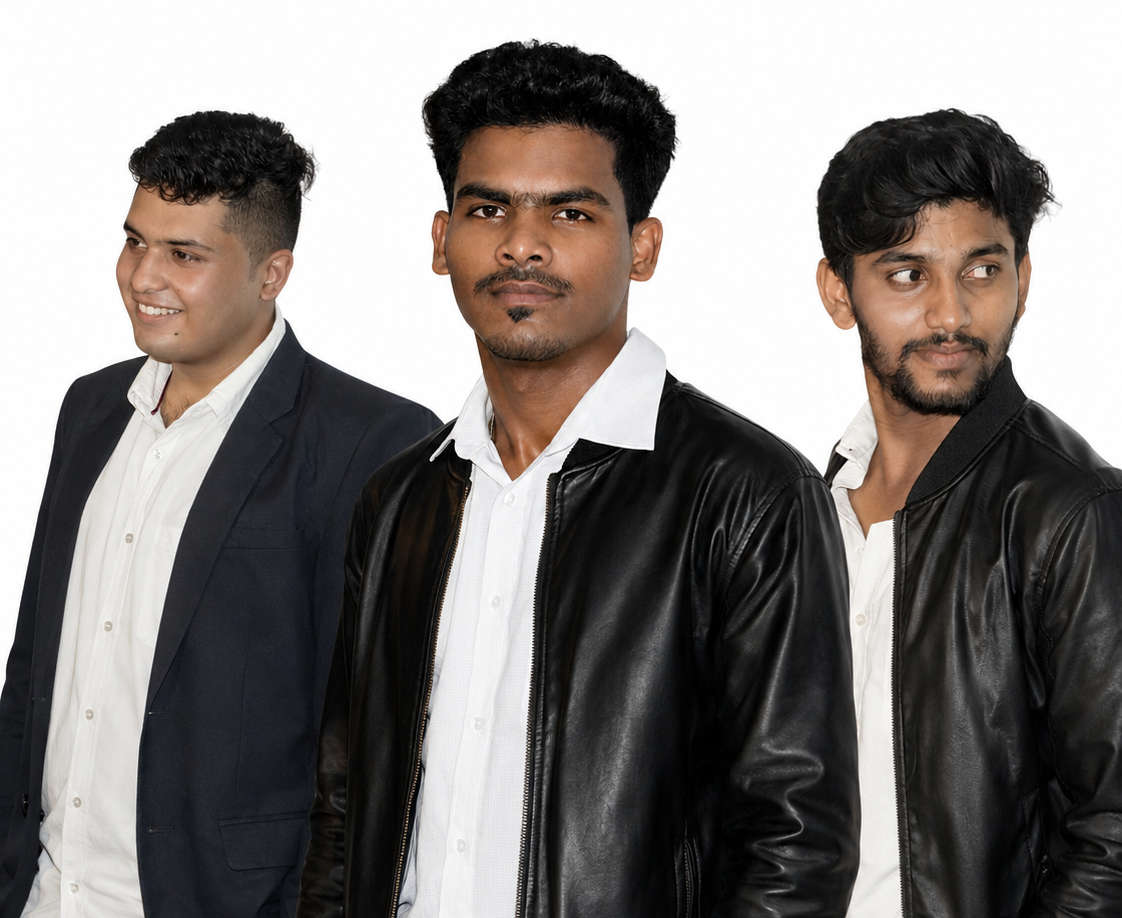
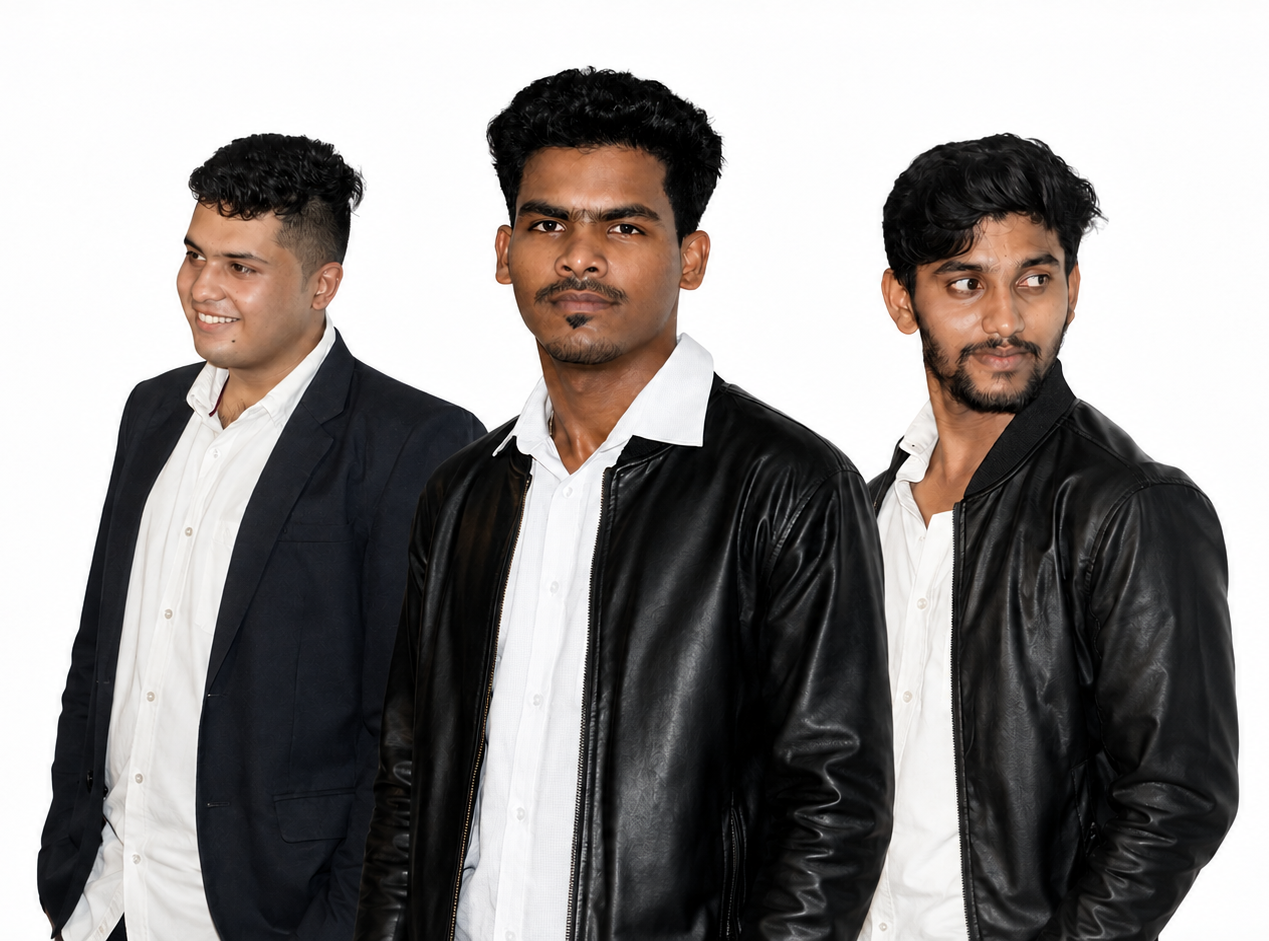
team image update

diff --git a/ieee-smec/src/pages/Team.jsx b/ieee-smec/src/pages/Team.jsx
@@ -140,29 +140,29 @@ function TeamGroupPhoto() {
   const [imgErr, setImgErr] = useState(false)
 
   return (
-    <section className="panel panel-pad">
-      <div className="grid md:grid-cols-2 gap-6 lg:gap-12 items-start mb-10">
-        <div className="section-head">
+    <section className="panel px-6 sm:px-10 lg:px-14 py-6 sm:py-10 lg:py-14">
+      <div className="max-w-3xl mx-auto text-center mb-10 flex flex-col items-center">
+        <div className="section-head text-center flex flex-col items-center">
           <span className="type-eyebrow txt-muted">The people behind IEEE SMEC</span>
-          <h2 className="type-h2 txt-primary">One Vision. One Team</h2>
+          <h2 className="type-h2 txt-primary mt-1">One Vision. One Team.</h2>
         </div>
-        <p className="type-body txt-secondary md:pt-8">
+        <p className="type-body txt-secondary text-center mt-4 max-w-2xl">
           We built the IEEE Student Branch at St. Martin&rsquo;s Engineering College to simplify how students
           learn and develop technical competency, reduce academic limitations, and inspire real-world
           technology solutions that address humanity&rsquo;s needs.
         </p>
       </div>
 
-      <div className="media-frame group shadow-e2 min-h-[240px]">
+      <div className="mx-auto md:media-frame group md:shadow-e2 md:max-h-[65vh] md:max-w-max md:flex md:items-center md:justify-center md:bg-slate-50 md:dark:bg-slate-900/10">
         {!imgErr ? (
           <img
             src="/Team images/Full Team.png"
             alt="IEEE SMEC Student Branch Team"
             onError={() => setImgErr(true)}
-            className="w-full h-auto block transition-transform duration-700 ease-brand group-hover:scale-[1.02]"
+            className="w-full h-auto md:w-auto md:h-auto md:max-h-[65vh] md:object-contain rounded-card md:rounded-none transition-transform duration-700 ease-brand group-hover:scale-[1.025] shadow-e2 md:shadow-none border border-light-border dark:border-dark-border md:border-none"
           />
         ) : (
-          <div className="flex flex-col items-center justify-center gap-4 text-center px-6 py-20">
+          <div className="mx-6 sm:mx-0 flex flex-col items-center justify-center gap-4 text-center px-6 py-20 md:media-frame md:w-full md:bg-slate-50 md:dark:bg-slate-900/10">
             <span className="icon-tile w-14 h-14 rounded-pill icon-tile-brand">
               <Users className="w-6 h-6" />
             </span>

diff --git a/ieee-smec/src/pages/Home.jsx b/ieee-smec/src/pages/Home.jsx
@@ -337,7 +337,7 @@ export default function Home() {
               differently, and building something meaningful, you won't want to miss it. But can you guess what it is ? 😉😁
               <br />
               <br />
-              Save the date — <strong className="font-semibold txt-primary"> _,_ August 2026</strong>.
+              Save the date — <strong className="font-semibold txt-primary"> August 2026</strong>.
               <br />
               We'll reveal everything soon, along with registration details and we will update registration link further.
               </p>

diff --git a/ieee-smec/src/pages/Explore.jsx b/ieee-smec/src/pages/Explore.jsx
@@ -23,7 +23,7 @@ const events = [
     id: 2,
     title: 'Genesis',
     month: 'AUG',
-    day: '_,_',
+    day: '',
     date: '28th August 2026',
     time: '09:20 am — 4:00 pm',
     location: 'Sardar Vallabhbhai Patel Auditorium & Labs, SMEC',
